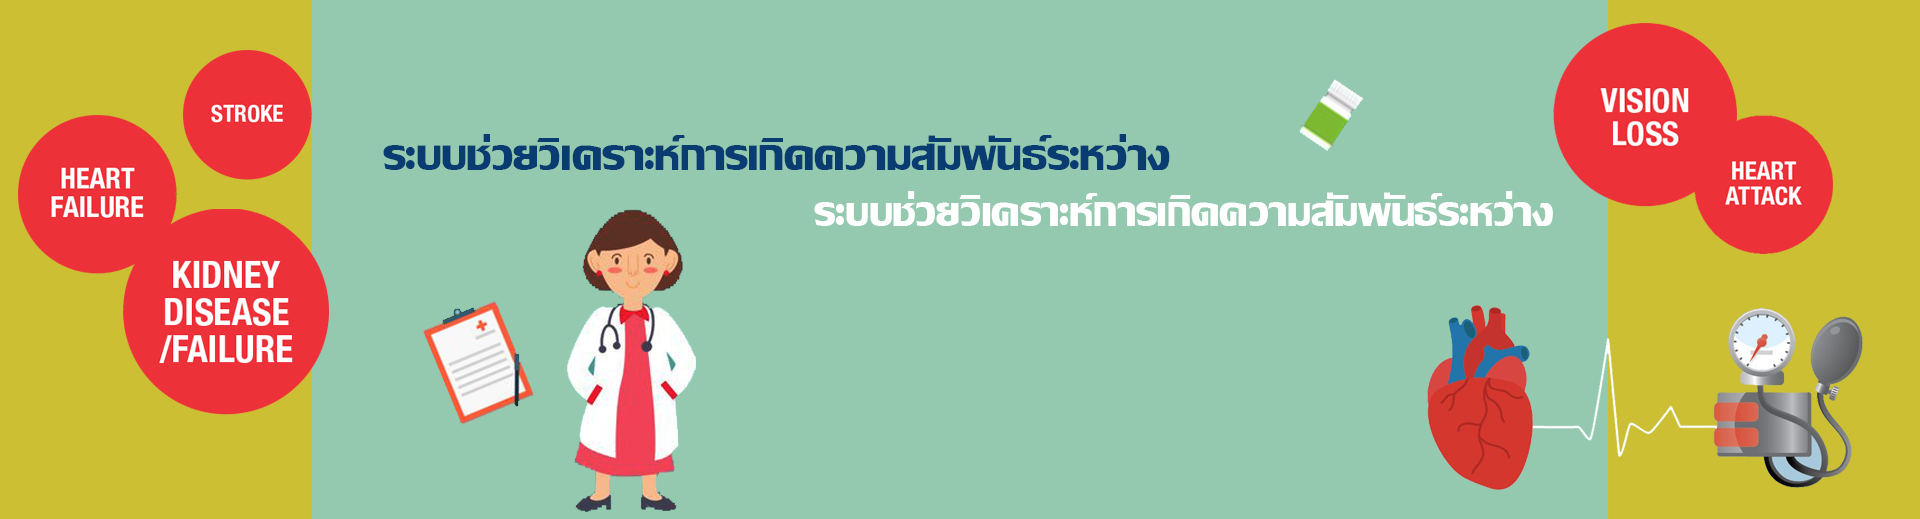
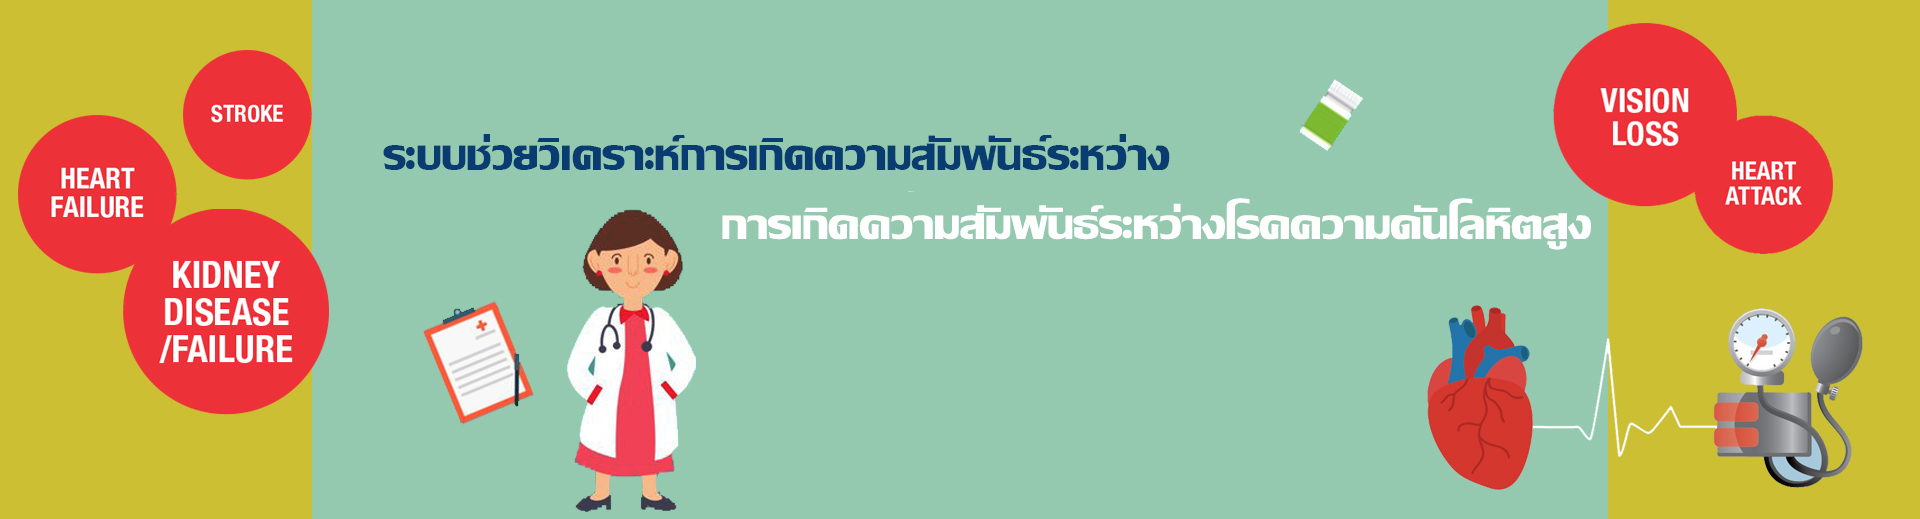
edit index

Changed region(s): [[0.375, 0.3699, 0.8438, 0.4624]]

diff --git a/index.html b/index.html
@@ -1,7 +1,8 @@
 <!DOCTYPE html>
 <html>
    <title>Analysis System for Relationship Between High
-Blood Pressure with Complications</title>
+      Blood Pressure with Complications
+   </title>
    <meta charset="UTF-8">
    <meta name="viewport" content="width=device-width, initial-scale=1">
    <link rel="stylesheet" href="https://www.w3schools.com/w3css/4/w3.css">
@@ -11,66 +12,56 @@ Blood Pressure with Complications</title>
    <script src="./js/popper.min.js"></script>
    <script src="./js/bootstrap.min.js"></script>
    <script src="./js/output.js"></script>
-<body>
-
+   <body>
       <header>
-        <div id="carouselExampleSlidesOnly" class="carousel slide" data-ride="carousel">
-  <div class="carousel-inner">
-    <div class="carousel-item active">
-      <img class="d-block w-100" src="./img/bg10.jpg" alt="First slide">
-    </div>
-
-
-
+         <div id="carouselExampleSlidesOnly" class="carousel slide" data-ride="carousel">
+         <div class="carousel-inner">
+         <div class="carousel-item active">
+            <img class="d-block w-100" src="./img/bg10.jpg" alt="First slide">
+         </div>
          <!-- Navbar (placed at the bottom of the header image) -->
-
-          <div class="container" style="margin-top: 3em;">
-                <center>
-                  <style>
-  .button {
-    display: inline-block;
-    border-radius: 4px;
-    background-color: #CD5C5C;
-    border: none;
-    color: #FFFFFF;
-    text-align: center;
-    font-size: 25px;
-    padding: 15px;
-    width: 200px;
-    transition: all 0.5s;
-    cursor: pointer;
-    margin: 5px;
-  }
-
-  .button span {
-    cursor: pointer;
-    display: inline-block;
-    position: relative;
-    transition: 0.5s;
-  }
-
-  .button span:after {
-    content: '\00bb';
-    position: absolute;
-    opacity: 0;
-    top: 0;
-    right: -20px;
-    transition: 0.5s;
-  }
-
-  .button:hover span {
-    padding-right: 25px;
-  }
-
-  .button:hover span:after {
-    opacity: 1;
-    right: 0;
-  }
-  </style>
-  </head>
-
-  <a href="system.html"><button class="button" style="vertical-align:middle"><span>ระบบวิเคราะห์ </span></button></a>
-
+         <div class="container" style="margin-top: 3em;">
+            <center>
+            <style>
+               .button {
+               display: inline-block;
+               border-radius: 4px;
+               background-color: #CD5C5C;
+               border: none;
+               color: #FFFFFF;
+               text-align: center;
+               font-size: 25px;
+               padding: 15px;
+               width: 200px;
+               transition: all 0.5s;
+               cursor: pointer;
+               margin: 5px;
+               }
+               .button span {
+               cursor: pointer;
+               display: inline-block;
+               position: relative;
+               transition: 0.5s;
+               }
+               .button span:after {
+               content: '\00bb';
+               position: absolute;
+               opacity: 0;
+               top: 0;
+               right: -20px;
+               transition: 0.5s;
+               }
+               .button:hover span {
+               padding-right: 25px;
+               }
+               .button:hover span:after {
+               opacity: 1;
+               right: 0;
+               }
+            </style>
+            </head>
+            <br>
+            <a href="system.html"><button class="button" style="vertical-align:middle"><span>ระบบวิเคราะห์ </span></button></a>
             <center>
                <br><br>
                <strong>
@@ -79,8 +70,7 @@ Blood Pressure with Complications</title>
                </p>
             </center>
             <br><br>
-
-      </div>
-        </header>
+         </div>
+      </header>
    </body>
 </html>

diff --git a/css/style.css b/css/style.css
@@ -35,3 +35,14 @@ background-image: linear-gradient(to top, #d5dee7 0%, #ffafbd 0%, #c9ffbf 100%);
 .back{
   background-image: linear-gradient(to top, #ff9a9e 0%, #fecfef 99%, #fecfef 100%);
 }
+
+
+.handle-label{
+	text-align: left !important;
+}
+
+@media screen and (min-width: 992px) {
+	.handle-label{
+		text-align: right !important;
+	}
+}
